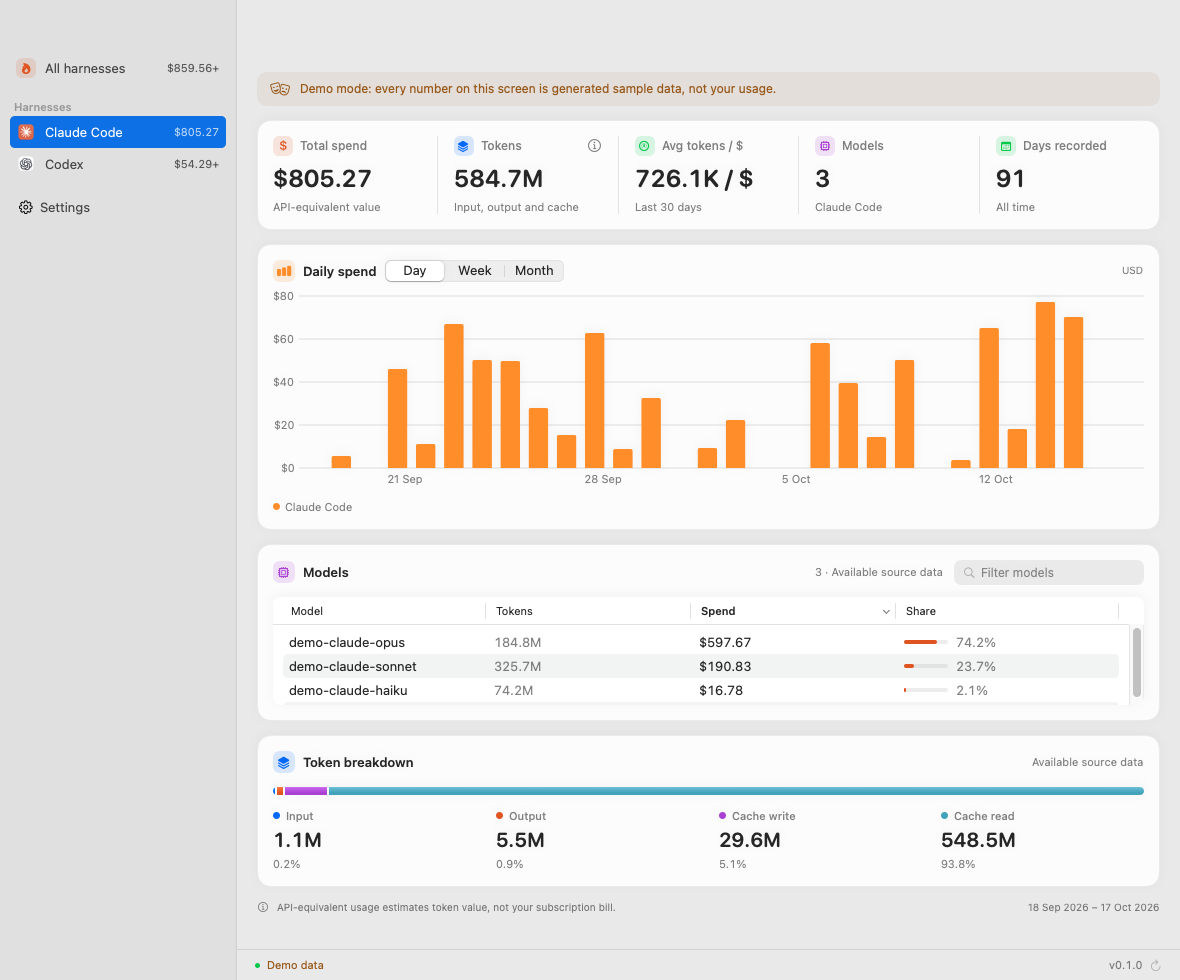
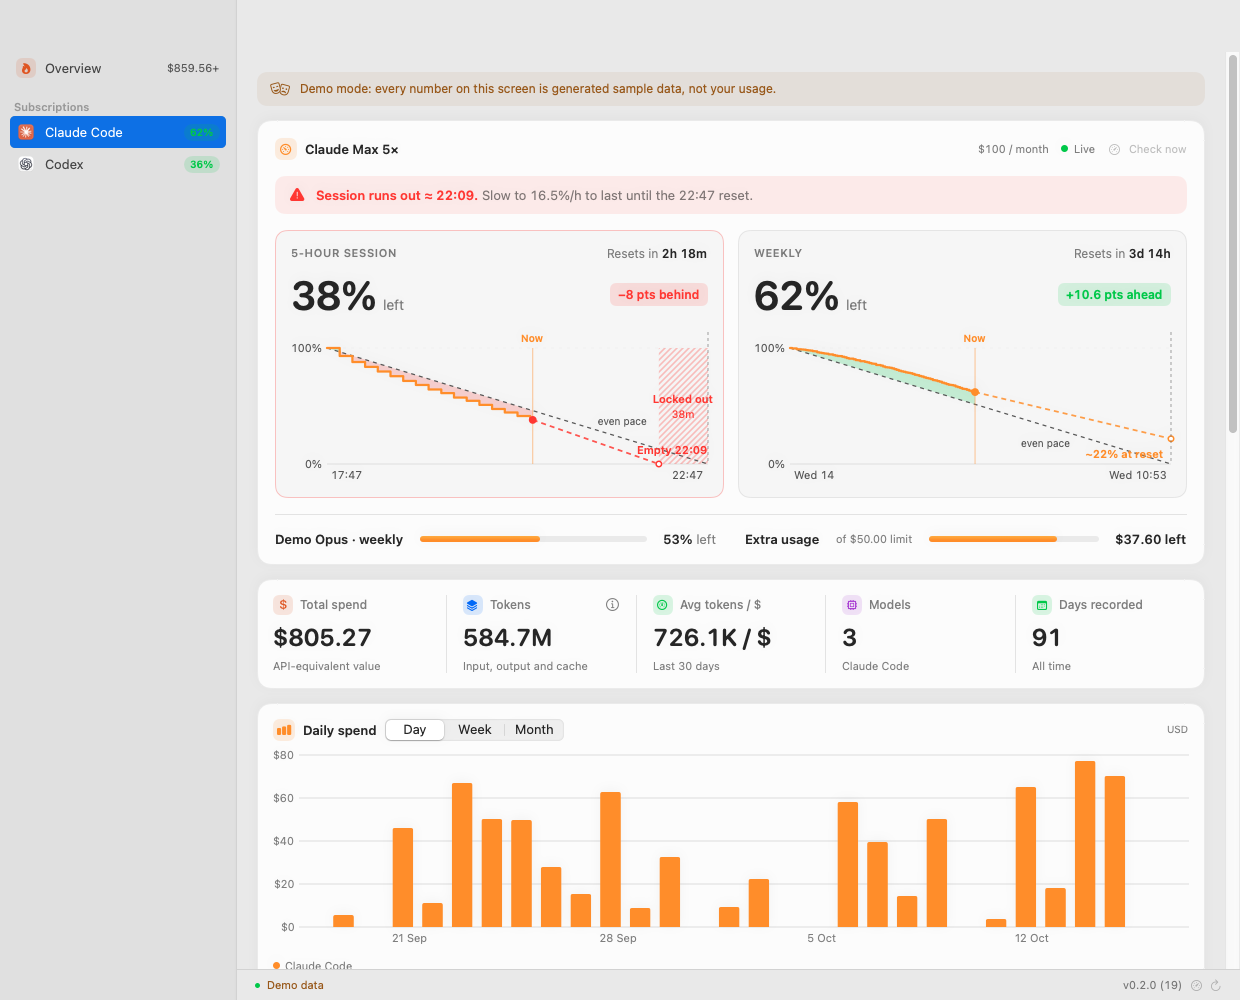
docs: document limits, live readings and menu bar; refresh demo screenshots

diff --git a/README.md b/README.md
@@ -1,23 +1,46 @@
 # Burnless
 
-A small native macOS dashboard for **Claude Code** and **Codex** usage: API-equivalent
-spend, tokens, days recorded, daily spend and models, read only from the local
-history files on your Mac.
+A native macOS app for **Claude Code** and **Codex**: API-equivalent spend, tokens,
+models, subscription limits with pace and forecast, plan value, and a menu bar
+quota. Everything is read from files on your Mac by default.
 
-Burnless is a deliberately reduced take on [Agent Burn](https://github.com/Melvynx/agent-burn):
-the same dashboard style and information for two harnesses, with no quotas, no
-subscriptions, no menu bar, no background agent and no network service. Its data
-engine is [ccusage](https://github.com/ccusage/ccusage).
+Burnless is [Agent Burn](https://github.com/Melvynx/agent-burn) focused on two
+harnesses: the same dashboard, quota charts, menu bar and settings, for Claude Code
+and Codex only. Its data engine is [ccusage](https://github.com/ccusage/ccusage).
 
 ![Overview (demo data)](docs/screenshots/overview.png)
 
-| Claude Code | Codex | Dark |
+| Claude Code | Codex | Menu bar |
 | --- | --- | --- |
-| ![](docs/screenshots/claude.png) | ![](docs/screenshots/codex.png) | ![](docs/screenshots/overview-dark.png) |
+| ![](docs/screenshots/claude.png) | ![](docs/screenshots/codex.png) | ![](docs/screenshots/menu-bar.png) |
+
+| Dark | Settings · Quotas |
+| --- | --- |
+| ![](docs/screenshots/claude-dark.png) | ![](docs/screenshots/settings-quotas.png) |
 
 Screenshots use the built-in demo mode; none of these numbers are real usage.
 
 ## What it shows
+
+**Subscription limits** (top of each harness page):
+
+- **Claude**: 5-hour session and weekly limits side by side, each with remaining share,
+  pace badge (`+10 pts ahead` / `−8 pts behind`), reset countdown and an until-reset chart
+  with even pace, forecast and the locked-out span when you would run out early. A
+  one-line verdict ("On track." / "Session runs out ≈ 22:04."), model-scoped weekly
+  limits and extra usage credits.
+- **Codex**: weekly quota with remaining, pace, reset time, used share, suggested daily
+  pace, $ per percent, banked resets and the shorter window when Codex reports one. The
+  chart range is selectable (Until reset, Reset to today, Today, Last 7 / 30 days). With
+  live limits, the weekly limit used per day by surface or by model.
+- **Plans**: detected from `~/.claude.json` (Claude rate-limit tier) and Codex's logs
+  (plan type), with monthly prices for known plans (Pro, Max 5×, Max 20×, Plus, Pro).
+  Unknown prices stay unknown; set one in Settings → Quotas.
+- **Subscription economics**: last 30 days at API prices vs. the plan price (value
+  multiple, subsidy, discount), daily usage in the current window, spend by token type,
+  8-week trend, quota value estimate and Codex image generations.
+
+**Usage**:
 
 - **Total spend**: API-equivalent value of the tokens in the selected period.
 - **Tokens**: input, output, cache write and cache read (breakdown in the ⓘ popover
@@ -32,8 +55,14 @@ Screenshots use the built-in demo mode; none of these numbers are real usage.
 - **Models · Available source data**: models seen in your logs, with tokens,
   spend and share. You can search and sort them.
 
-Periods: Today, Last 7 days, Last 30 days (default), This month, All time.
-Navigation: All harnesses, Claude Code, Codex, Settings. Refresh with ⌘R.
+Periods: Today, Yesterday, Reset to date, Week to date, This month, Last 7 days,
+Last 30 days (default), Year to date, All time. Navigation: Overview (with a
+Subscriptions card), Claude Code, Codex. Refresh with ⌘R; check limits now with ⇧⌘R.
+
+**Menu bar**: a flame with the weekly remaining of the harness you choose, and a popover
+with General / Codex / Claude tabs (spend, tokens, quota remaining, busiest agents, top
+models, weekly chart and usage details). Optional menu-bar-only mode, launch at login,
+background collection and update checks are in Settings.
 
 ## Install
 
@@ -95,8 +124,41 @@ Privacy and safety:
 - The engine outputs only dates, model names, token counts and costs. Prompts and
   conversations are never stored or displayed.
 - There's no account, no API key and no telemetry. Nothing is sent anywhere unless you
-  enable *Fetch current prices*, which only downloads LiteLLM's public price list.
+  enable *Fetch current prices* (downloads LiteLLM's public price list), *Read live
+  limits* (see below) or *Check for updates* (reads the public GitHub release list).
 - Cloud conversations that are not in the local history are not counted.
+
+## Limits and live readings
+
+By default Burnless reads limits from files already on your Mac, with no sign-in and no
+network request:
+
+- Codex writes the account `rate_limits` it enforced with each request to its session
+  logs; Burnless reads the newest one (side limits such as Spark are skipped).
+- Claude Code saves the meters it last fetched in `~/.claude.json`
+  (`cachedUsageUtilization`), next to the account's rate-limit tier. Burnless ignores
+  meters that belong to a different signed-in account.
+
+These are as fresh as the last time Claude Code or Codex wrote them; each card says how
+old its reading is. Settings → Quotas → **Read live limits** (off by default) also asks
+the providers once a minute, using the endpoints Codex and Claude Code call themselves:
+`chatgpt.com/backend-api/wham/usage` with the token in `~/.codex/auth.json`, and
+`api.anthropic.com/api/oauth/usage` with Claude Code's Keychain item
+(`Claude Code-credentials`; macOS asks for permission once). Sign-ins are used strictly
+read-only: Burnless never renews, writes or stores a token. An expired Claude sign-in is
+reported and Claude Code renews it on its next run. Rate limits (HTTP 429) are honoured,
+and the app and background collector share one pacing so Anthropic is asked at most
+once a minute.
+
+Readings (percentages and reset times only) are kept for 120 days in
+`~/Library/Application Support/Burnless/quota-history.json` for the charts. As in Agent
+Burn, a weekly reading far above the last half hour's lowest one is treated as a provider
+over-count until confirmed, and replays of an earlier window are ignored. Forecasts
+extend the observed pace to reset; even pace spreads the limit evenly over the window.
+
+**Background collection** (Settings → Background, off by default) registers a launch
+agent (`Contents/Library/LaunchAgents/io.github.hug0x0.burnless.quota.plist`) that runs
+`Burnless --collect-quotas` every minute, so charts have no gaps when the app is closed.
 
 ## How numbers are calculated
 
@@ -155,13 +217,17 @@ between the two runs.
 
 ## Limits
 
-- Only Claude Code and Codex. There are no quotas, limits, reset times, subscriptions,
-  forecasts, menu bar or notifications (by design).
+- Only Claude Code and Codex (no Cursor or other harnesses, by design).
+- Without live limits, Claude's meters are only as recent as Claude Code's own last check.
+  Codex's daily breakdown by surface and model needs live limits.
+- Plan prices are a built-in table; Codex Pro Lite and team plans have no price until
+  you set one. Image generations use a $0.15 per image estimate, outside spend totals.
 - Estimates depend on the pricing snapshot. New models may show as unpriced until the
   snapshot is updated or *Fetch current prices* is enabled.
 - History deleted from disk can't be reconstructed. The cache only keeps data for a
   source while that source is failing.
-- The build is ad-hoc signed for local use. It is not notarized for distribution.
+- The build is ad-hoc signed for local use. It is not notarized for distribution, and
+  Check for Updates only links to new GitHub releases (no automatic install).
 
 ## Troubleshooting
 
@@ -186,5 +252,6 @@ variables (`BURNLESS_CAPTURE`, `BURNLESS_ROUTE`, `BURNLESS_PERIOD`,
 ## License and credits
 
 MIT, see [LICENSE](LICENSE). Built on ccusage (MIT, © ryoppippi) and adapted from
-Agent Burn (MIT, © ryoppippi, © Melvynx). Pricing data comes from LiteLLM (MIT).
+Agent Burn (MIT, © ryoppippi, © Melvynx): dashboard, quota chart, Claude account panels,
+Codex limit chart, menu bar popover and settings. Pricing data comes from LiteLLM (MIT).
 Provider logos belong to their owners. See [THIRD_PARTY_NOTICES.md](THIRD_PARTY_NOTICES.md).

diff --git a/THIRD_PARTY_NOTICES.md b/THIRD_PARTY_NOTICES.md
@@ -37,10 +37,17 @@ SOFTWARE.
 ## Agent Burn
 
 Burnless's dashboard layout, card/metric/share-bar components (`Theme.swift`),
-spend histogram (`SpendChart.swift`) and model table follow and adapt code from
+spend histogram (`SpendChart.swift`), model table, quota chart and its geometry
+(`QuotaChartView.swift`, `QuotaChartMath.swift`), quota history rules and forecast
+(`Quota.swift`), Claude account and Codex limit views (`QuotaViews.swift`), subscription
+details (`SubscriptionViews.swift`), menu bar popover (`MenuBar.swift`) and settings
+tabs (`SettingsView.swift`) follow and adapt code from
 https://github.com/Melvynx/agent-burn at revision
 `9ce6d8e1f9ae4bfb3ca62a2d3fee6cd831171105`, mainly
-`apps/macos/Sources/AgentBurn/{NativeUsageView,Theme,Usage}.swift`.
+`apps/macos/Sources/AgentBurn/*.swift`. The engine's quota parsing (`engine/src/quota.rs`,
+`engine/src/images.rs`) follows Agent Burn's Rust `claude/limits.rs`,
+`claude/claude_code.rs`, `claude/plan.rs`, `codex/limits.rs`, `codex/plan.rs`,
+`codex/limit_usage.rs` and `codex/images.rs`, without its OAuth token renewal.
 
 ```
 MIT License
